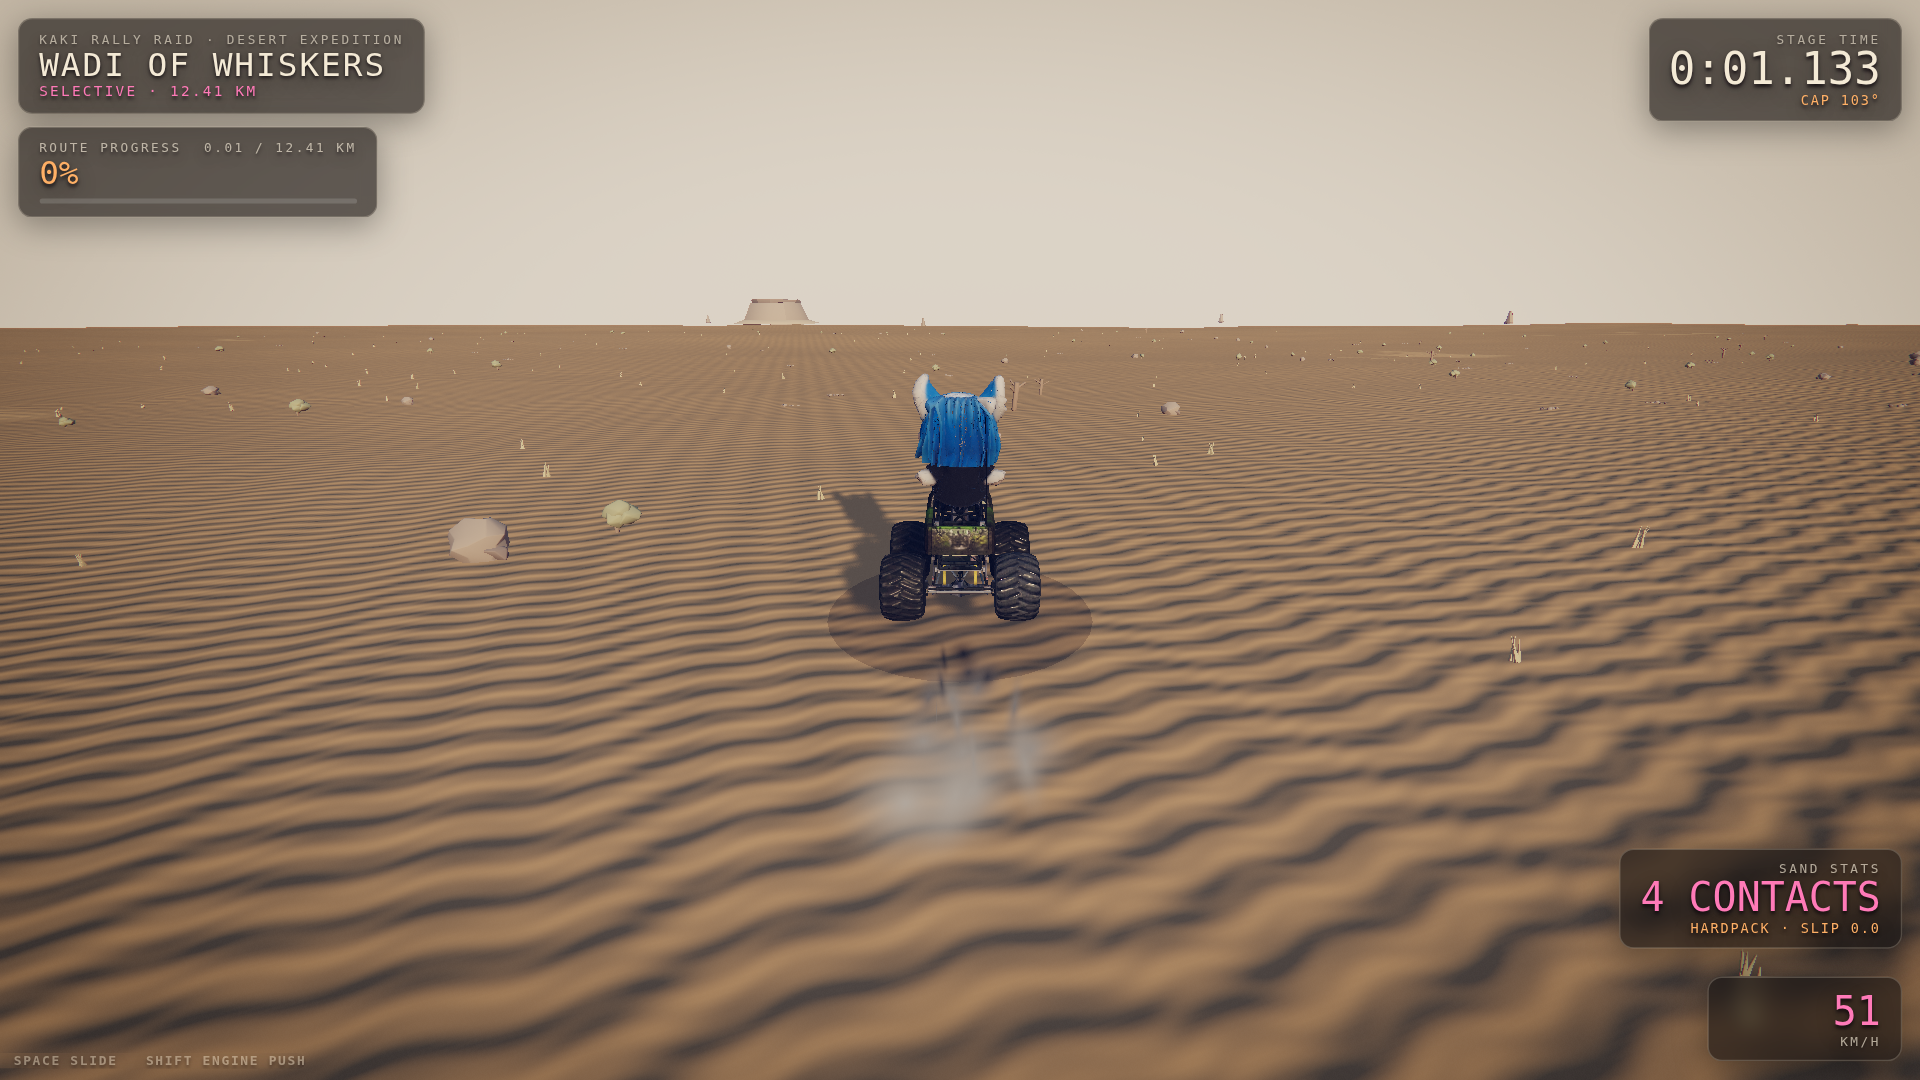
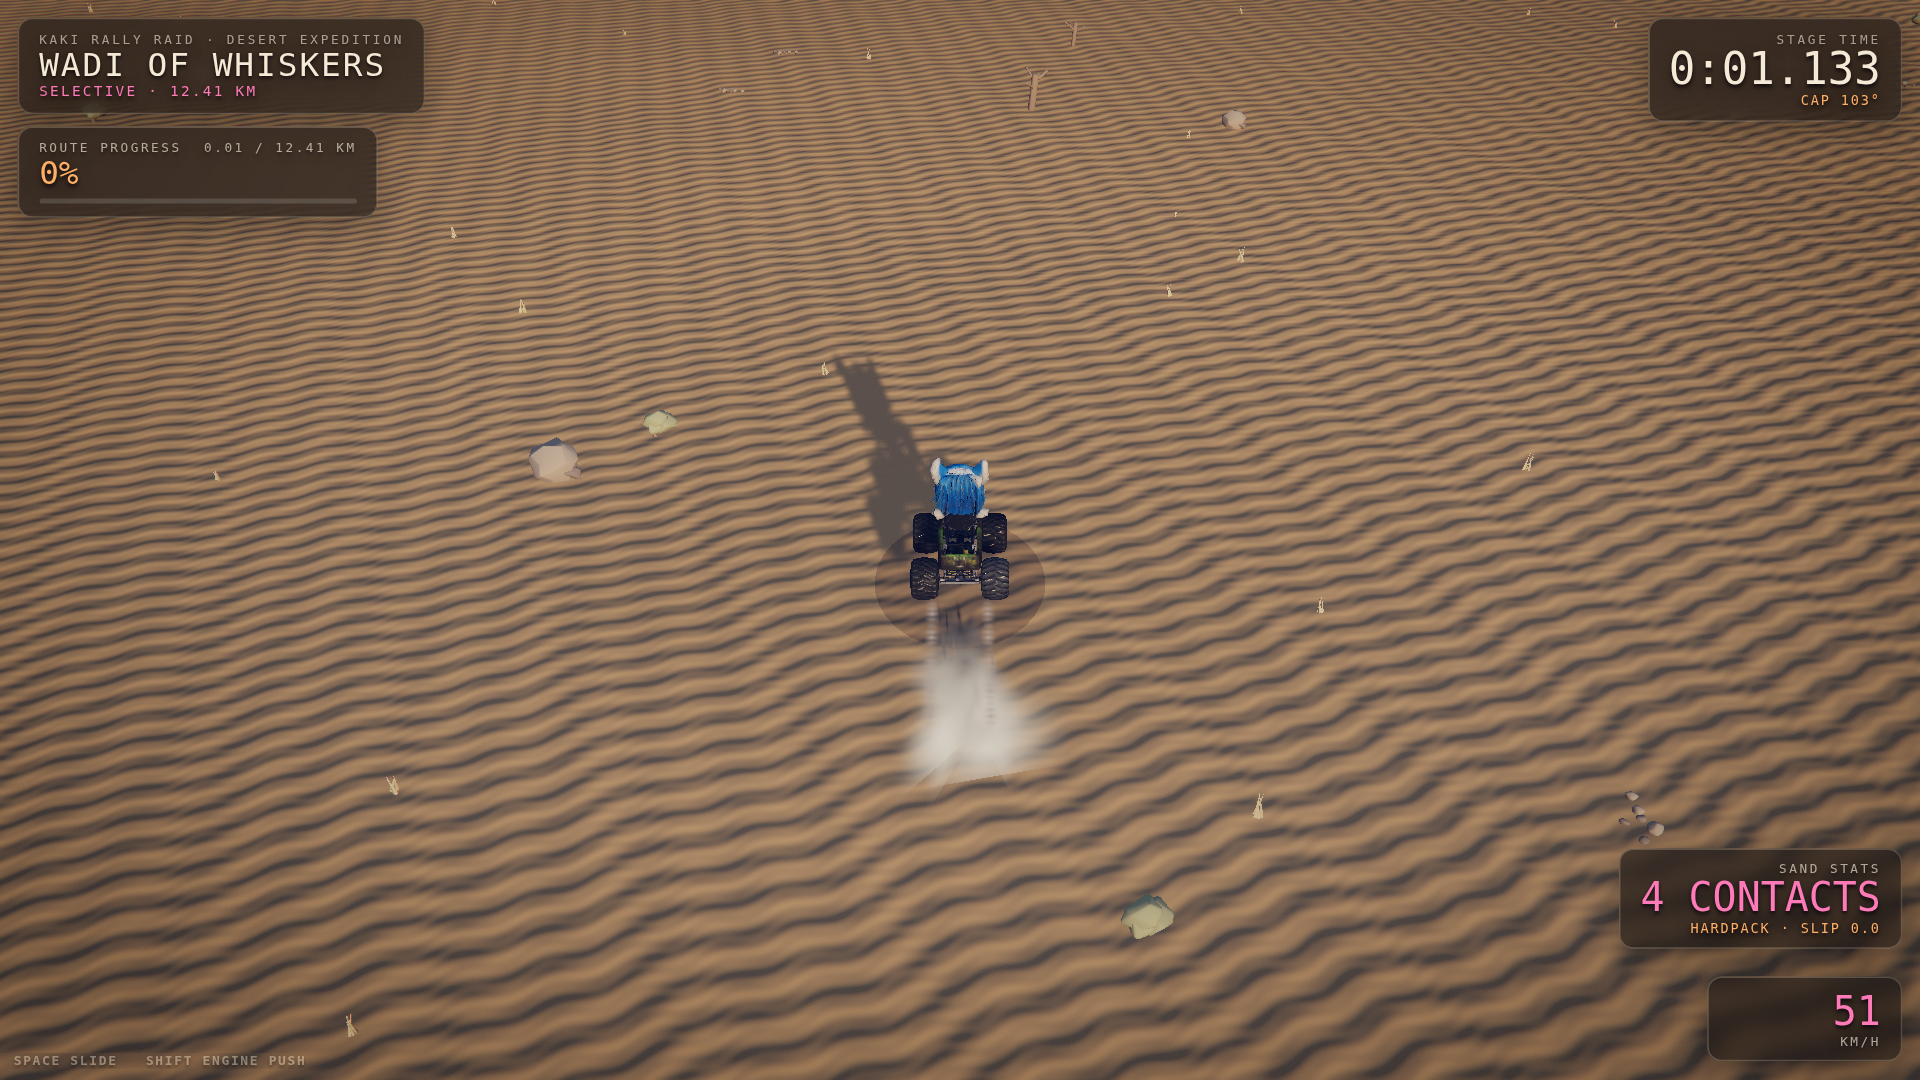
Fix Raid camera modes, add wheel trails, stop the slow-motion starve
Three real defects.

The camera selector did nothing. setRacingCameraMode and cycleRacingCamera both
route through state.racing.cameraManager, which Raid does not have, so every
call returned false. Raid now answers those calls itself with chase, isometric
and driver views.

There were no wheel trails at all. Adds a fixed-capacity ring buffer of ground
marks in one draw call, deeper and longer-lived on loose sand, laid in pairs
either side of the centreline.

The important one: the vehicle was travelling 1.9 m in 9 seconds while
reporting 7.4 m/s. The fixed-step loop used a 1/120 step capped at 8 substeps
and discarded the remainder, so any frame rate below about 15 fps ran the whole
world in slow motion. The scene had grown heavy enough to trigger it, which is
what starved both the trails and the dust. A 1/60 step with a 12-step cap keeps
real time, and the terrain patch is cut from 320 to 176 segments because
re-sampling 102k quads on every recentre was the cost sink.

Measured headlessly under software rendering the same drive now covers 3.4 m
instead of 1.9 m with three times the trails and dust, but swiftshader runs at a
few frames per second so this is NOT confirmation that the starve is gone on
real hardware.

diff --git a/src/racing/raid/raidMode.js b/src/racing/raid/raidMode.js
@@ -25,18 +25,19 @@ import { clamp } from './raidSurfaceField.js';
 import { createRallyAssetLease } from '../racingAssets.js';
 import { createRaidEnvironment } from './raidEnvironment.js';
 import { createRaidDust } from './raidDust.js';
+import { createRaidTrails } from './raidTrails.js';
 import { createRaidHud } from './raidHud.js';
 import { createRaidVehicle, stepRaidVehicle } from './raidVehiclePhysics.js';
 
 // The visible terrain patch. 768 m across at 3 m resolution: large enough that
 // the horizon is a landscape rather than a tabletop, cheap enough to re-displace
 // on the CPU when the vehicle crosses a cell.
-const PATCH_METRES = 1536;
-const PATCH_SEGMENTS = 320;
+const PATCH_METRES = 1280;
+const PATCH_SEGMENTS = 176;
 const PATCH_STEP = PATCH_METRES / PATCH_SEGMENTS;
 
-const FIXED_STEP = 1 / 120;
-const MAX_SUBSTEPS = 8;
+const FIXED_STEP = 1 / 60;
+const MAX_SUBSTEPS = 12;
 
 let _session = null;
 
@@ -198,6 +199,8 @@ export async function enterRaidMode(scene, options = {}) {
     offRouteMeters: 0,
     physicsTimeMs: 0,
     lights: [],
+    cameraMode: RAID_CAMERA_MODES.includes(options.cameraMode) ? options.cameraMode : 'chase',
+    trails: null,
     windVector: { x: Math.cos(route.windAngle), z: Math.sin(route.windAngle) },
   };
 
@@ -308,6 +311,8 @@ export async function enterRaidMode(scene, options = {}) {
 
   session.dust = createRaidDust({ quality, owned });
   root.add(session.dust.mesh);
+  session.trails = createRaidTrails({ quality, provider, owned });
+  root.add(session.trails.mesh);
 
   session.hud = createRaidHud();
 
@@ -343,6 +348,7 @@ export function tickRaidMode(dt, elapsedDt = dt) {
 
   syncRaidVehicleVisual(session);
   session.dust?.update(dt, vehicle, vehicle.surface || { dust: 0.6, looseness: 0.5 }, session.windVector);
+  session.trails?.update(dt, vehicle, vehicle.surface || { looseness: 0.5 });
 
   // Route progress, windowed so a fold-back cannot hand out free distance.
   const sample = nearestRaidRouteSample(session.routeIndex, vehicle.x, vehicle.z, {
@@ -394,11 +400,39 @@ function syncRaidVehicleVisual(session) {
   }
 }
 
+// The shell's camera selector offers these three. Raid has no cameraManager, so
+// it answers the same calls itself; without this the menu's Camera control
+// silently did nothing.
+export const RAID_CAMERA_MODES = Object.freeze(['chase', 'isometric', 'driver']);
+
+export function getRaidCameraMode() {
+  return _session?.cameraMode || 'chase';
+}
+
+export function setRaidCameraMode(mode, options = {}) {
+  const session = _session;
+  if (!session || session.disposed) return false;
+  const normalized = mode === 'fpv' ? 'driver' : mode;
+  if (!RAID_CAMERA_MODES.includes(normalized)) return false;
+  session.cameraMode = normalized;
+  updateRaidCamera(0, { ...options, snap: true });
+  return true;
+}
+
+export function cycleRaidCamera(direction = 1) {
+  const session = _session;
+  if (!session || session.disposed) return false;
+  const current = RAID_CAMERA_MODES.indexOf(session.cameraMode || 'chase');
+  const next = (current + (direction >= 0 ? 1 : RAID_CAMERA_MODES.length - 1)) % RAID_CAMERA_MODES.length;
+  return setRaidCameraMode(RAID_CAMERA_MODES[next]);
+}
+
 export function updateRaidCamera(dt, options = {}) {
   const session = _session;
   if (!session || session.disposed || !session.camera) return null;
   const vehicle = session.vehicle;
   const speed = Math.hypot(vehicle.velocityX, vehicle.velocityZ);
+  const mode = session.cameraMode || 'chase';
 
   // Follow the direction of travel once there is meaningful movement, so a
   // slide shows the vehicle rotated inside the frame rather than nose-on.
@@ -406,25 +440,49 @@ export function updateRaidCamera(dt, options = {}) {
   const blend = clamp(speed / 26, 0, 1) * 0.55;
   let heading = vehicle.yaw + shortestAngle(vehicle.yaw, travelYaw) * blend;
 
-  const distance = 13 + clamp(speed * 0.22, 0, 9) + (vehicle.airborne ? 4 : 0);
-  const height = 5.4 + clamp(speed * 0.06, 0, 3.4);
+  let distance = 13 + clamp(speed * 0.22, 0, 9) + (vehicle.airborne ? 4 : 0);
+  let height = 5.4 + clamp(speed * 0.06, 0, 3.4);
+  if (mode === 'isometric') {
+    // High and pulled back, so the dune relief and the route ahead read as a
+    // landscape rather than as a wall.
+    distance = 34 + clamp(speed * 0.3, 0, 12);
+    height = 26 + clamp(speed * 0.12, 0, 8);
+    heading = vehicle.yaw;
+  } else if (mode === 'driver') {
+    distance = -0.35;
+    height = 2.05;
+    heading = vehicle.yaw;
+  }
   const targetX = vehicle.x - Math.cos(heading) * distance;
   const targetZ = vehicle.z - Math.sin(heading) * distance;
   const groundY = session.provider.heightAt(targetX, targetZ);
-  const targetY = Math.max(vehicle.y + height, groundY + 3.2);
+  const targetY = mode === 'driver'
+    ? vehicle.y + height
+    : Math.max(vehicle.y + height, groundY + 3.2);
 
-  const smoothing = options.snap ? 1 : 1 - Math.exp(-6.5 * Math.max(dt, 0));
+  const responsiveness = mode === 'driver' ? 16 : mode === 'isometric' ? 4.2 : 6.5;
+  const smoothing = options.snap ? 1 : 1 - Math.exp(-responsiveness * Math.max(dt, 0));
   session.camera.position.x += (targetX - session.camera.position.x) * smoothing;
   session.camera.position.y += (targetY - session.camera.position.y) * smoothing;
   session.camera.position.z += (targetZ - session.camera.position.z) * smoothing;
-  session.camera.lookAt(vehicle.x, vehicle.y + 1.6, vehicle.z);
+  if (mode === 'driver') {
+    // Look down the bonnet rather than at the vehicle you are sitting in.
+    session.camera.lookAt(
+      vehicle.x + Math.cos(vehicle.yaw) * 30,
+      vehicle.y + height - 1.2,
+      vehicle.z + Math.sin(vehicle.yaw) * 30,
+    );
+  } else {
+    session.camera.lookAt(vehicle.x, vehicle.y + 1.6, vehicle.z);
+  }
+  if (session.vehicleVisual?.root) session.vehicleVisual.root.visible = mode !== 'driver';
 
   const aspect = options.aspect || session.cameraHost?.getAspect?.() || 16 / 9;
   if (Number.isFinite(aspect) && aspect > 0 && session.camera.aspect !== aspect) {
     session.camera.aspect = aspect;
     session.camera.updateProjectionMatrix();
   }
-  const targetFov = 62 + clamp(speed * 0.28, 0, 12);
+  const targetFov = (mode === 'isometric' ? 38 : mode === 'driver' ? 74 : 62) + clamp(speed * 0.28, 0, 12);
   session.camera.fov += (targetFov - session.camera.fov) * (options.snap ? 1 : smoothing * 0.6);
   session.camera.updateProjectionMatrix();
 
@@ -478,6 +536,8 @@ export function getRaidSnapshot() {
     patchRefreshes: session.patchRefreshes,
     scatter: session.environment?.stats || null,
     dust: session.dust ? { alive: session.dust.alive, capacity: session.dust.capacity } : null,
+    trails: session.trails ? { alive: session.trails.alive, capacity: session.trails.capacity } : null,
+    cameraMode: session.cameraMode,
     physicsTimeMs: session.physicsTimeMs,
   };
 }
@@ -516,6 +576,8 @@ export function exitRaidMode(scene, explicitSession = null) {
   try { session.environment?.dispose(); } catch (_) {}
   try { session.dust?.dispose(); } catch (_) {}
   session.dust = null;
+  try { session.trails?.dispose(); } catch (_) {}
+  session.trails = null;
   // A shadow-casting light owns a render target. Disposing the light's Object3D
   // does not free it, so the map leaks one texture pair per session without this.
   try { session.sun?.shadow?.dispose?.(); } catch (_) {}

diff --git a/src/racing/raid/raidTrails.js b/src/racing/raid/raidTrails.js
@@ -1,0 +1,184 @@
+// Kaki Rally Raid — persistent wheel trails.
+//
+// Dust says the machine is moving. Trails say where it has been, which is the
+// part that makes a desert feel driven-on rather than driven-over: your own line
+// is visible behind you, a mistake leaves evidence, and on a fold-back you can
+// see the track you laid on the way out.
+//
+// A fixed-capacity ring buffer of flat quads laid on the ground, one draw call.
+// The oldest sample is overwritten rather than removed, so cost is constant no
+// matter how far the stage runs.
+
+import * as THREE from 'three/webgpu';
+
+import { clamp } from './raidSurfaceField.js';
+
+export const RAID_TRAIL_QUALITY = Object.freeze({
+  low: 240,
+  medium: 480,
+  high: 900,
+  ultra: 1400,
+});
+
+// Metres of travel between samples. Close enough that the marks overlap into a
+// continuous band, far enough that the ring covers a useful distance.
+const SAMPLE_SPACING = 0.85;
+
+// Track pairs sit this far either side of the vehicle centreline.
+const TRACK_HALF_WIDTH = 0.92;
+
+function createTrackTexture() {
+  const size = 64;
+  const data = new Uint8Array(size * size * 4);
+  for (let y = 0; y < size; y += 1) {
+    for (let x = 0; x < size; x += 1) {
+      const index = (y * size + x) * 4;
+      const u = (x / (size - 1)) * 2 - 1;
+      const v = (y / (size - 1)) * 2 - 1;
+      // Soft-edged oval, with a tread ripple along its length so a track reads
+      // as a tyre mark rather than as a smear.
+      const oval = clamp(1 - Math.hypot(u * 1.15, v), 0, 1);
+      const tread = 0.72 + 0.28 * Math.sin(v * Math.PI * 6);
+      const alpha = oval ** 1.5 * tread;
+      data[index] = 255;
+      data[index + 1] = 255;
+      data[index + 2] = 255;
+      data[index + 3] = Math.round(clamp(alpha, 0, 1) * 255);
+    }
+  }
+  const texture = new THREE.DataTexture(data, size, size, THREE.RGBAFormat);
+  texture.needsUpdate = true;
+  texture.minFilter = THREE.LinearFilter;
+  texture.magFilter = THREE.LinearFilter;
+  return texture;
+}
+
+export function createRaidTrails({ quality = 'high', provider, owned } = {}) {
+  const capacity = RAID_TRAIL_QUALITY[quality] || RAID_TRAIL_QUALITY.high;
+  const texture = createTrackTexture();
+  const geometry = new THREE.PlaneGeometry(1, 1);
+  geometry.rotateX(-Math.PI / 2);
+  const material = new THREE.MeshBasicMaterial({
+    map: texture,
+    transparent: true,
+    depthWrite: false,
+    // Darken the ground rather than paint on it, so a track reads as a groove in
+    // any light and never as a bright decal.
+    blending: THREE.NormalBlending,
+    vertexColors: true,
+  });
+  const mesh = new THREE.InstancedMesh(geometry, material, capacity);
+  mesh.name = 'kaki-raid-trails';
+  mesh.frustumCulled = false;
+  mesh.renderOrder = 1;
+  mesh.count = capacity;
+  mesh.instanceMatrix.setUsage(THREE.DynamicDrawUsage);
+  mesh.instanceColor = new THREE.InstancedBufferAttribute(new Float32Array(capacity * 3), 3);
+  mesh.instanceColor.setUsage(THREE.DynamicDrawUsage);
+  owned?.geometries?.add(geometry);
+  owned?.materials?.add(material);
+  owned?.textures?.add(texture);
+
+  const life = new Float32Array(capacity);
+  const maxLife = new Float32Array(capacity);
+  const strength = new Float32Array(capacity);
+  let cursor = 0;
+  let alive = 0;
+  let lastX = null;
+  let lastZ = null;
+
+  const matrix = new THREE.Matrix4();
+  const position = new THREE.Vector3();
+  const quaternion = new THREE.Quaternion();
+  const scaleVector = new THREE.Vector3();
+  const euler = new THREE.Euler();
+  const colour = new THREE.Color();
+  const hidden = new THREE.Matrix4().makeScale(0, 0, 0);
+
+  function stamp(x, z, yaw, depth, width, ttl) {
+    const index = cursor;
+    cursor = (cursor + 1) % capacity;
+    // Sit just above the surface so the mark follows the terrain it is on.
+    const y = provider.heightAt(x, z) + 0.045;
+    position.set(x, y, z);
+    euler.set(0, -yaw + Math.PI * 0.5, 0);
+    quaternion.setFromEuler(euler);
+    scaleVector.set(width, 1, 1.9);
+    matrix.compose(position, quaternion, scaleVector);
+    mesh.setMatrixAt(index, matrix);
+    life[index] = ttl;
+    maxLife[index] = ttl;
+    strength[index] = depth;
+  }
+
+  function update(dt, vehicle, surface) {
+    // Only lay track where wheels are actually on the ground.
+    if (vehicle.contacts > 0) {
+      if (lastX === null) {
+        lastX = vehicle.x;
+        lastZ = vehicle.z;
+      }
+      const travelled = Math.hypot(vehicle.x - lastX, vehicle.z - lastZ);
+      if (travelled >= SAMPLE_SPACING) {
+        const steps = Math.min(6, Math.floor(travelled / SAMPLE_SPACING));
+        for (let step = 1; step <= steps; step += 1) {
+          const t = step / steps;
+          const x = lastX + (vehicle.x - lastX) * t;
+          const z = lastZ + (vehicle.z - lastZ) * t;
+          const cos = Math.cos(vehicle.yaw);
+          const sin = Math.sin(vehicle.yaw);
+          // Looser ground takes a deeper, wider mark and holds it longer.
+          const looseness = clamp(surface.looseness ?? 0.5, 0, 1);
+          const depth = 0.3 + looseness * 0.6 + clamp(vehicle.slip * 0.06, 0, 0.35);
+          const width = 0.62 + looseness * 0.34 + clamp(vehicle.slip * 0.05, 0, 0.5);
+          const ttl = 14 + looseness * 26;
+          // A pair of tracks, offset to either side of the centreline.
+          stamp(x + sin * TRACK_HALF_WIDTH, z - cos * TRACK_HALF_WIDTH, vehicle.yaw, depth, width, ttl);
+          stamp(x - sin * TRACK_HALF_WIDTH, z + cos * TRACK_HALF_WIDTH, vehicle.yaw, depth, width, ttl);
+        }
+        lastX = vehicle.x;
+        lastZ = vehicle.z;
+      }
+    }
+    // Deliberately NOT resetting the anchor when contact is lost. Suspension
+    // makes `contacts` flicker several times a second on rough ground, and
+    // clearing the anchor on every flicker restarted the travelled distance
+    // before it could reach one sample spacing, so almost no track was laid.
+
+    alive = 0;
+    for (let index = 0; index < capacity; index += 1) {
+      if (life[index] <= 0) continue;
+      life[index] -= dt;
+      if (life[index] <= 0) {
+        mesh.setMatrixAt(index, hidden);
+        continue;
+      }
+      // Fade the mark out as the wind fills it back in.
+      const remaining = life[index] / maxLife[index];
+      const shade = clamp(strength[index] * remaining, 0, 1);
+      colour.setRGB(0.40 - shade * 0.20, 0.31 - shade * 0.17, 0.22 - shade * 0.13);
+      mesh.setColorAt(index, colour);
+      alive += 1;
+    }
+    mesh.instanceMatrix.needsUpdate = true;
+    if (mesh.instanceColor) mesh.instanceColor.needsUpdate = true;
+  }
+
+  // Nothing is stamped until the first update, so start fully hidden.
+  for (let index = 0; index < capacity; index += 1) mesh.setMatrixAt(index, hidden);
+  mesh.instanceMatrix.needsUpdate = true;
+
+  return {
+    mesh,
+    update,
+    get alive() { return alive; },
+    get capacity() { return capacity; },
+    dispose() {
+      mesh.dispose?.();
+      mesh.removeFromParent();
+      geometry.dispose();
+      material.dispose();
+      texture.dispose();
+    },
+  };
+}

diff --git a/src/racing/raid/raidDust.js b/src/racing/raid/raidDust.js
@@ -17,8 +17,8 @@ const UP = new THREE.Vector3(0, 1, 0);
 export const RAID_DUST_QUALITY = Object.freeze({
   low: 90,
   medium: 180,
-  high: 320,
-  ultra: 480,
+  high: 560,
+  ultra: 820,
 });
 
 // A soft round puff, generated rather than shipped so the mode needs no texture
@@ -115,8 +115,8 @@ export function createRaidDust({ quality = 'high', owned } = {}) {
     // barely anything crawling across salt.
     const emission = clamp((speed / 9) * (0.35 + surface.dust), 0, 6.5)
       + clamp(vehicle.slip * 0.35 * surface.dust, 0, 5);
-    if (speed > 1.4 && vehicle.contacts > 0) {
-      const count = Math.min(4, Math.round(emission * dt * 34));
+    if (speed > 1.4 && !vehicle.airborne) {
+      const count = Math.min(7, Math.round(emission * dt * 68));
       for (let i = 0; i < count; i += 1) {
         // Emit behind the rear axle rather than at the origin.
         const back = 1.5 + Math.random() * 0.7;
@@ -156,8 +156,8 @@ export function createRaidDust({ quality = 'high', owned } = {}) {
       pz[index] += vz[index] * dt;
 
       const age = 1 - life[index] / maxLife[index];
-      const scale = 0.8 + age * (3.4 + seed[index] * 2.2);
-      const fade = Math.sin(Math.min(1, age) * Math.PI) * 0.5;
+      const scale = 1.3 + age * (5.2 + seed[index] * 3.4);
+      const fade = Math.sin(Math.min(1, age) * Math.PI) * 0.85;
       position.set(px[index], py[index], pz[index]);
       // Camera-facing is handled by keeping the puff upright and letting the
       // soft alpha do the work; a full billboard costs a per-particle lookAt.

diff --git a/src/racing/index.js b/src/racing/index.js
@@ -3459,10 +3459,12 @@ export function resizeRacingCamera(aspect) {
 }
 
 export function setRacingCameraMode(mode, options = {}) {
+  if (state.racing?.raceMode === 'raid') return _raidModeApi?.setRaidCameraMode(mode, options) || false;
   return state.racing?.cameraManager?.setCameraMode(mode, options) || false;
 }
 
 export function cycleRacingCamera(direction = 1) {
+  if (state.racing?.raceMode === 'raid') return _raidModeApi?.cycleRaidCamera(direction) || false;
   return state.racing?.cameraManager?.cycleCamera(direction) || false;
 }
 
